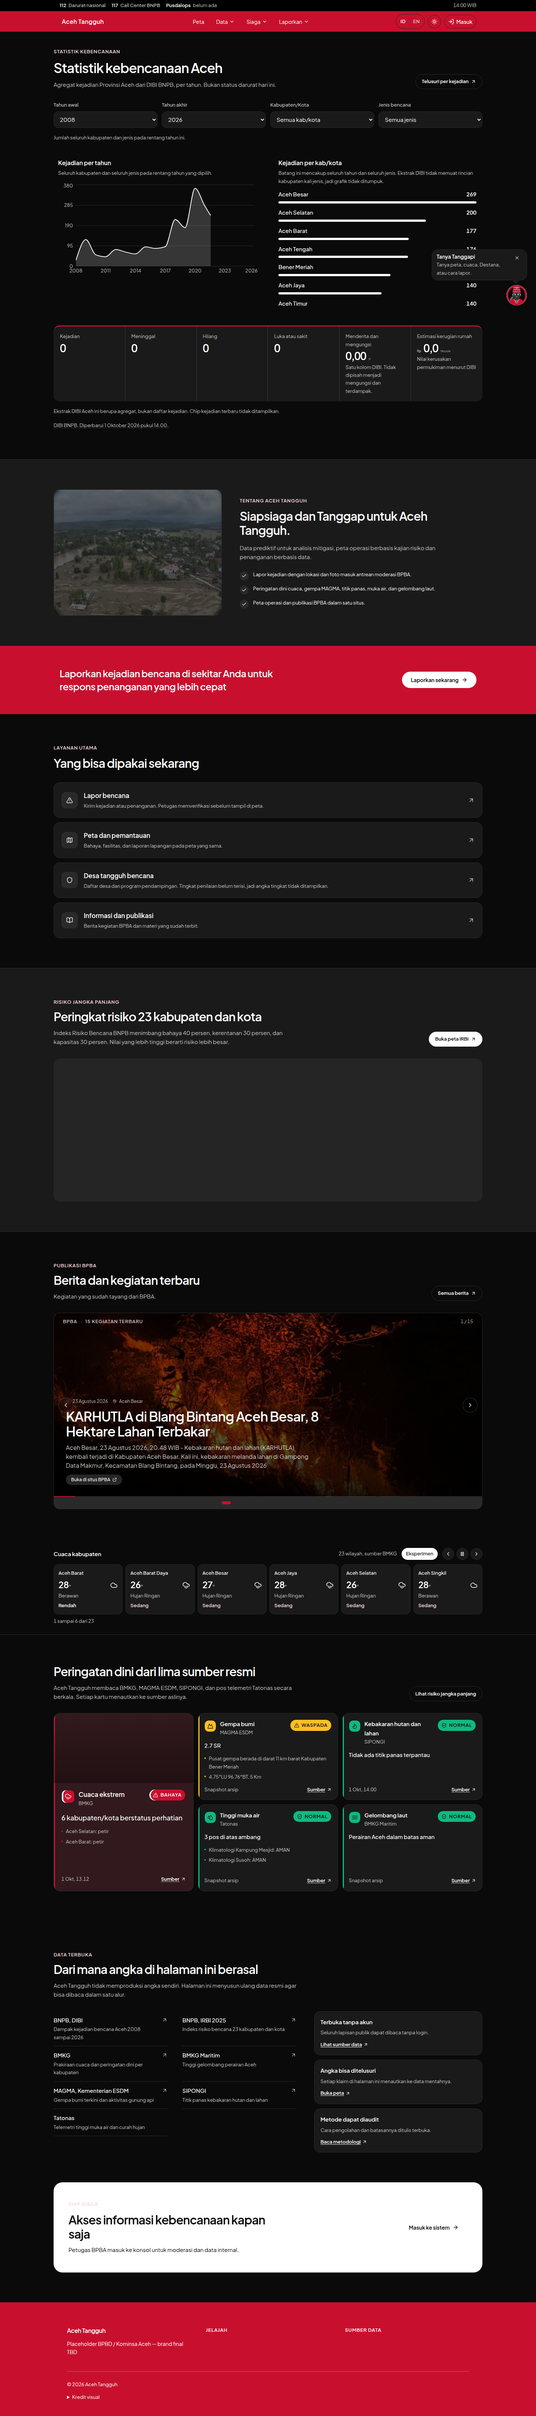
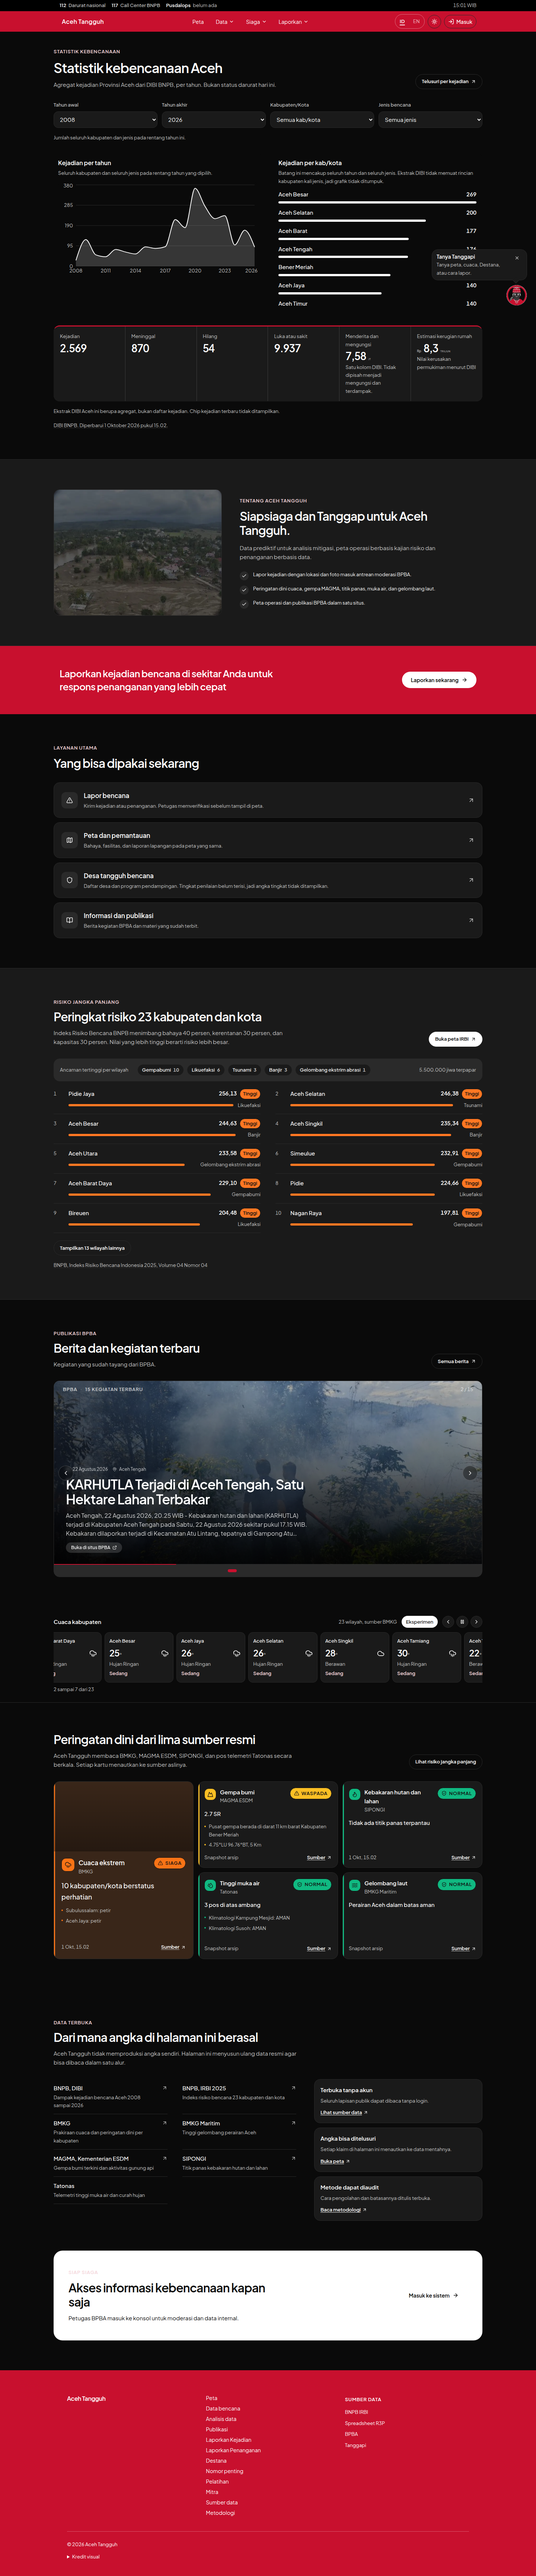
docs: recapture beranda, PD chips, and the EN toggle
The dark full-page beranda is from local next start after the page was quiet, with the same-tab DIBI payload. Early-warning chips read Siaga orange, and the light header shows the language toggle.

diff --git a/docs/pengembangan/jurnal/FE-63.md b/docs/pengembangan/jurnal/FE-63.md
@@ -75,7 +75,7 @@ Tangkapan `/id/peta` memakai `localStorage` `at-theme=dark`. Pusat kamera `97.99
 
 ## Gate HOLD — Siaga, bahasa, data
 
-Status: draf
+Status: selesai
 
 ### Niat
 
@@ -88,3 +88,45 @@ Status: draf
 ### Bacaan ulang niat
 
 `neutral` tetap `aman`, sesuai pemetaan yang sudah ada; tidak ada level baru bernama netral. Kata "bahaya" pada judul kartu sumber tetap. `HeroSection` tidak dipasang di beranda dan tidak disebut, jadi tidak diubah. Angka 2.568 hanya dipakai jika fixture yang benar-benar terkirim memuatnya.
+
+### Perubahan
+
+`toneLevel` di `format.ts` memetakan `danger` ke `siaga`. `TONE_DOT`, `TONE_CHIP`, dan `TONE_EDGE` untuk `danger` memakai `--status-siaga`. Kartu utama dan cincin hover mengikuti token yang sama. Label id "Siaga", en "Alert". Chip status terukur `rgb(249, 115, 22)` dengan teks dan garis tepi `rgb(17, 17, 17)`.
+
+Toggle bahasa di header merah: locale tidak aktif `rgba(255, 255, 255, 0.7)` pada 13px; locale aktif putih, `font-weight` 600, dan garis bawah.
+
+`yearPick` menolak string kosong dan tahun di luar seri, supaya `Number("")` tidak menjadi tahun 0. Jendela tahun kosong pada band angka menampilkan "belum ada", bukan 0. Jumlah default fixture tetap 2.568.
+
+### Bukti
+
+```
+npm test  # tests 855, pass 855, fail 0
+npx tsc --noEmit  # exit 0
+```
+
+Preview Vercel #114 mengembalikan 302 ke SSO. Tangkapan dari `next start` di `http://127.0.0.1:3001` (build produksi lokal), setelah halaman tenang 8 detik.
+
+`/api/dibi/aceh` dari tab yang sama (`docs/pengembangan/jurnal/fe-63/dibi-aceh-same-tab.json`):
+
+- source: `dibi` (live lolos penjaga, bukan fixture)
+- totals.kejadian: 2569
+- by_tahun: 19 baris, 2008–2026, jumlah kejadian 2569
+- metadata.fetched_at: `2026-10-01T08:02:03.796Z`
+
+Band di DOM: `2.569`, `870`, `54`, `9.937`, `7,58 jt`, `Rp 8,3 triliun`. Tahun awal 2008, tahun akhir 2026. Bukan 0.
+
+Tangkapan lama `beranda-gelap-1440-full.png` (sebelum putaran ini) menampilkan angka 0 pada band, sementara grafik kabupaten tetap terisi. Payload live yang valid tidak menjumlah 0 pada rentang default. Pick tahun kosong (`""` → `Number("") === 0`) sekarang diabaikan, dan jendela tanpa baris menampilkan "belum ada".
+
+Kunci Carto tidak ada di lingkungan ini (`NEXT_PUBLIC_CARTO_API_KEY` kosong). Ubin dark-matter tidak diambil. Tidak ada fallback OSM untuk butir itu.
+
+Chip PD pada `#status`, lebar 390, tema terang dan gelap: level `siaga`, label SIAGA. Header terang 390 dengan menu terbuka: tombol EN 13px, putih 70%; tombol ID aktif bergaris bawah.
+
+### Bacaan ulang bukti versus kriteria
+
+- [x] Tidak ada `PeringatanTone` pada `toneLevel` yang menghasilkan `awas`
+- [x] Chip danger oranye Siaga, garis tepi #111; level resmi gunung api tidak diubah
+- [x] EN di header terang minimal putih 70%, 13px, aktif bukan hanya warna
+- [x] Respons DIBI tab yang sama tersimpan; live 2569, bukan 0
+- [x] Data tanpa baris tahun tidak dicetak sebagai 0
+- [x] Basemap dark-matter tidak dipalsukan dengan OSM
+
